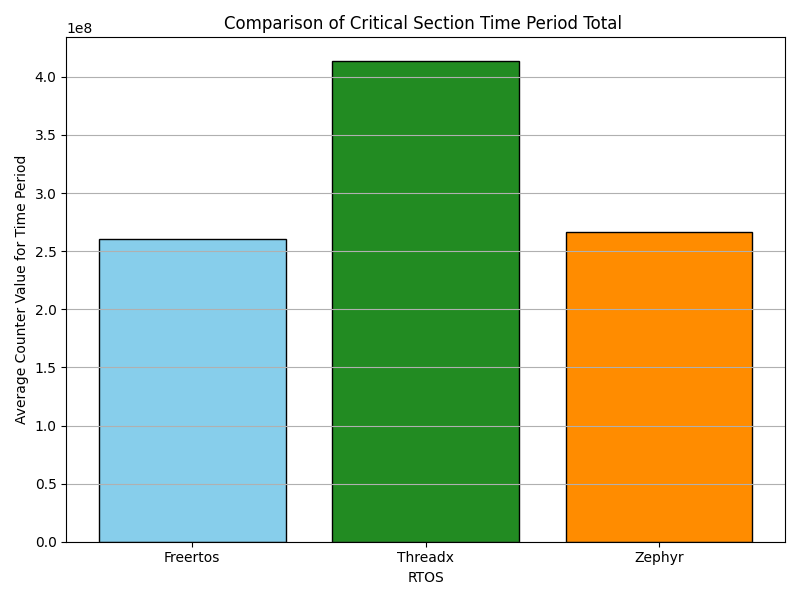
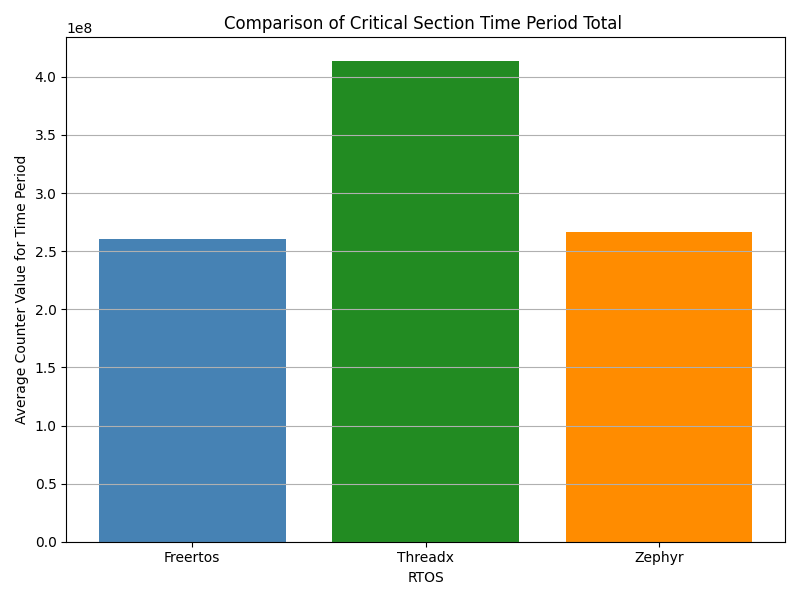
updated inhertiance tests

diff --git a/inheritance_test_messsetup2/analyse_and_plot.py b/inheritance_test_messsetup2/analyse_and_plot.py
@@ -1,7 +1,31 @@
+# Copyright (c) <2025> <Marco Milenkovic>
+#
+# This Code was generated with help of the ChatGPT and Github Copilot
+# The Code was carfeully reviewed and adjusted to work as intended
+# The Code is used to analyse and plot the critical section test results
+#
+# Permission is hereby granted, free of charge, to any person obtaining a copy of 
+# this software and associated documentation files (the "Software"), 
+# to deal in the Software without restriction, including without limitation the 
+# rights to use, copy, modify, merge, publish, distribute, sublicense, 
+# and/or sell copies of the Software, and to permit persons to whom the Software 
+# is furnished to do so, subject to the following conditions:
+#
+# The above copyright notice and this permission notice shall be included in all 
+# copies or substantial portions of the Software.
+#
+# THE SOFTWARE IS PROVIDED "AS IS", WITHOUT WARRANTY OF ANY KIND, EXPRESS OR IMPLIED, 
+# INCLUDING BUT NOT LIMITED TO THE WARRANTIES OF MERCHANTABILITY, FITNESS FOR 
+# A PARTICULAR PURPOSE AND NONINFRINGEMENT. IN NO EVENT SHALL THE AUTHORS OR 
+# COPYRIGHT HOLDERS BE LIABLE FOR ANY CLAIM, DAMAGES OR OTHER LIABILITY, WHETHER IN 
+# AN ACTION OF CONTRACT, TORT OR OTHERWISE, ARISING FROM, OUT OF OR IN CONNECTION 
+# WITH THE SOFTWARE OR THE USE OR OTHER DEALINGS IN THE SOFTWARE.
+
 import os
 import re
 import numpy as np
 import matplotlib.pyplot as plt
+import csv
 
 # --------------------------------
 # Utility functions
@@ -253,7 +277,7 @@ def plot_cycle_jitter(summary):
     # Plot Absolute Jitter
     plt.figure(figsize=(8,6))
     x = np.arange(len(rtoses))
-    plt.bar(x, jitter_abs, color='skyblue')
+    plt.bar(x, jitter_abs, color=['steelblue', 'forestgreen', 'darkorange'])
     plt.xticks(x, rtoses)
     plt.ylabel("Cycle Count Jitter (Absolute)")
     plt.title("Cycle Count Jitter (Absolute)")
@@ -264,7 +288,7 @@ def plot_cycle_jitter(summary):
     
     # Plot Percentage Jitter
     plt.figure(figsize=(8,6))
-    plt.bar(x, jitter_pct, color='lightgreen')
+    plt.bar(x, jitter_pct, color=['steelblue', 'forestgreen', 'darkorange'])
     plt.xticks(x, rtoses)
     plt.ylabel("Cycle Count Jitter (%)")
     plt.title("Cycle Count Jitter (%)")
@@ -359,6 +383,45 @@ def plot_comparison_all_rtoses(summary):
     plt.savefig(plot_filename)
     plt.close()
 
+def plot_cycle_count(summary):
+    """
+    Create and save a bar chart comparing the Cycle Count metrics (Min, Robust Avg, Max)
+    for each RTOS listed in the summary.
+    """
+    # Extract RTOS names and corresponding cycle count metrics from the summary.
+    rtoses = [item['rtos'] for item in summary]
+    x = np.arange(len(rtoses))
+    bar_width = 0.25
+
+    cycle_mins = [item['cycle_min'] for item in summary]
+    cycle_robusts = [item['cycle_robust'] for item in summary]
+    cycle_maxs = [item['cycle_max'] for item in summary]
+
+    # Create the figure for Cycle Count comparison.
+    plt.figure(figsize=(8, 6))
+    plt.bar(x - bar_width, cycle_mins, width=bar_width, label='Min', color='steelblue')
+    plt.bar(x, cycle_robusts, width=bar_width, label='Robust Avg', color='darkorange')
+    plt.bar(x + bar_width, cycle_maxs, width=bar_width, label='Max', color='forestgreen')
+
+    plt.title("Cycle Count Comparison")
+    plt.xlabel("RTOS")
+    plt.ylabel("Cycle Count (Adjusted)")
+    plt.xticks(x, rtoses)
+    plt.legend()
+    plt.grid(True)
+    plt.tight_layout()
+
+    # Ensure the 'plot' directory exists.
+    plot_dir = "plot"
+    if not os.path.exists(plot_dir):
+        os.makedirs(plot_dir)
+
+    # Save the figure.
+    plot_filename = os.path.join(plot_dir, "cycle_count_comparison.png")
+    plt.savefig(plot_filename)
+    plt.close()
+    print(f"Cycle count plot saved to {plot_filename}")
+
 # --------------------------------
 # Main Function
 # --------------------------------
@@ -406,24 +469,56 @@ def main():
             'dcache_miss_max': averages['dcache_miss_max'],
         })
 
-    # Write summary file.
-    with open("summary_inheritance.txt", "w") as f:
-        for item in summary:
-            f.write(f"RTOS: {item['rtos']}\n")
-            f.write(f"File: {item['file']}\n")
-            f.write(f"Total Inversion Cycles: {item['total_inversions']}\n")
-            f.write(f"Number of Measurements: {item['num_measurements']}\n")
-            f.write(f"Cycle Count - Min: {item['cycle_min']:.2f}, Robust Avg: {item['cycle_robust']:.2f}, Median: {item['cycle_median']:.2f}, Max: {item['cycle_max']:.2f}\n")
-            f.write(f"ICache Miss - Min: {item['icache_min']:.2f}, Robust Avg: {item['icache_robust']:.2f}, Median: {item['icache_median']:.2f}, Max: {item['icache_max']:.2f}\n")
-            f.write(f"DCache Access - Min: {item['dcache_access_min']:.2f}, Robust Avg: {item['dcache_access_robust']:.2f}, Median: {item['dcache_access_median']:.2f}, Max: {item['dcache_access_max']:.2f}\n")
-            f.write(f"DCache Miss - Min: {item['dcache_miss_min']:.2f}, Robust Avg: {item['dcache_miss_robust']:.2f}, Median: {item['dcache_miss_median']:.2f}, Max: {item['dcache_miss_max']:.2f}\n")
-            f.write("-" * 40 + "\n")
-    print("Inheritance analysis complete. Summary written to summary_inheritance.txt and all plots saved in the 'plot' directory.")
+    # Define the output CSV file path
+    summary_file = "summary_inheritance.csv"
 
+    # Open the CSV file for writing
+    with open(summary_file, mode='w', newline='') as csvfile:
+        csvwriter = csv.writer(csvfile)
+        
+        # Write the header row with all desired fields
+        header = [
+            "RTOS", "File", "Total Inversion Cycles", "Number of Measurements",
+            "Cycle Count Min", "Cycle Count Robust Avg", "Cycle Count Median", "Cycle Count Max",
+            "ICache Miss Min", "ICache Miss Robust Avg", "ICache Miss Median", "ICache Miss Max",
+            "DCache Access Min", "DCache Access Robust Avg", "DCache Access Median", "DCache Access Max",
+            "DCache Miss Min", "DCache Miss Robust Avg", "DCache Miss Median", "DCache Miss Max"
+        ]
+        csvwriter.writerow(header)
+        
+        # Write each summary item as a row in the CSV file
+        for item in summary:
+            row = [
+                item["rtos"],
+                item["file"],
+                item["total_inversions"],
+                item["num_measurements"],
+                f"{item['cycle_min']:.2f}",
+                f"{item['cycle_robust']:.2f}",
+                f"{item['cycle_median']:.2f}",
+                f"{item['cycle_max']:.2f}",
+                f"{item['icache_min']:.2f}",
+                f"{item['icache_robust']:.2f}",
+                f"{item['icache_median']:.2f}",
+                f"{item['icache_max']:.2f}",
+                f"{item['dcache_access_min']:.2f}",
+                f"{item['dcache_access_robust']:.2f}",
+                f"{item['dcache_access_median']:.2f}",
+                f"{item['dcache_access_max']:.2f}",
+                f"{item['dcache_miss_min']:.2f}",
+                f"{item['dcache_miss_robust']:.2f}",
+                f"{item['dcache_miss_median']:.2f}",
+                f"{item['dcache_miss_max']:.2f}"
+            ]
+            csvwriter.writerow(row)
+
+    print("Inheritance analysis complete. Summary written to summary_inheritance.csv and all plots saved in the 'plot' directory.")
     # Generate the comparison plot for all RTOSes.
     plot_comparison_all_rtoses(summary)
     # Generate the new Cycle Count jitter plots.
     plot_cycle_jitter(summary)
+
+    plot_cycle_count(summary)
 
 if __name__ == "__main__":
     main()

diff --git a/tests_auf_default/inheritance_test_messsetup2/analyse_and_plot.py b/tests_auf_default/inheritance_test_messsetup2/analyse_and_plot.py
@@ -1,7 +1,31 @@
+# Copyright (c) <2025> <Marco Milenkovic>
+#
+# This Code was generated with help of the ChatGPT and Github Copilot
+# The Code was carfeully reviewed and adjusted to work as intended
+# The Code is used to analyse and plot the critical section test results
+#
+# Permission is hereby granted, free of charge, to any person obtaining a copy of 
+# this software and associated documentation files (the "Software"), 
+# to deal in the Software without restriction, including without limitation the 
+# rights to use, copy, modify, merge, publish, distribute, sublicense, 
+# and/or sell copies of the Software, and to permit persons to whom the Software 
+# is furnished to do so, subject to the following conditions:
+#
+# The above copyright notice and this permission notice shall be included in all 
+# copies or substantial portions of the Software.
+#
+# THE SOFTWARE IS PROVIDED "AS IS", WITHOUT WARRANTY OF ANY KIND, EXPRESS OR IMPLIED, 
+# INCLUDING BUT NOT LIMITED TO THE WARRANTIES OF MERCHANTABILITY, FITNESS FOR 
+# A PARTICULAR PURPOSE AND NONINFRINGEMENT. IN NO EVENT SHALL THE AUTHORS OR 
+# COPYRIGHT HOLDERS BE LIABLE FOR ANY CLAIM, DAMAGES OR OTHER LIABILITY, WHETHER IN 
+# AN ACTION OF CONTRACT, TORT OR OTHERWISE, ARISING FROM, OUT OF OR IN CONNECTION 
+# WITH THE SOFTWARE OR THE USE OR OTHER DEALINGS IN THE SOFTWARE.
+
 import os
 import re
 import numpy as np
 import matplotlib.pyplot as plt
+import csv
 
 # --------------------------------
 # Utility functions
@@ -253,7 +277,7 @@ def plot_cycle_jitter(summary):
     # Plot Absolute Jitter
     plt.figure(figsize=(8,6))
     x = np.arange(len(rtoses))
-    plt.bar(x, jitter_abs, color='skyblue')
+    plt.bar(x, jitter_abs, color=['steelblue', 'forestgreen', 'darkorange'])
     plt.xticks(x, rtoses)
     plt.ylabel("Cycle Count Jitter (Absolute)")
     plt.title("Cycle Count Jitter (Absolute)")
@@ -264,7 +288,7 @@ def plot_cycle_jitter(summary):
     
     # Plot Percentage Jitter
     plt.figure(figsize=(8,6))
-    plt.bar(x, jitter_pct, color='lightgreen')
+    plt.bar(x, jitter_pct, color=['steelblue', 'forestgreen', 'darkorange'])
     plt.xticks(x, rtoses)
     plt.ylabel("Cycle Count Jitter (%)")
     plt.title("Cycle Count Jitter (%)")
@@ -359,6 +383,45 @@ def plot_comparison_all_rtoses(summary):
     plt.savefig(plot_filename)
     plt.close()
 
+def plot_cycle_count(summary):
+    """
+    Create and save a bar chart comparing the Cycle Count metrics (Min, Robust Avg, Max)
+    for each RTOS listed in the summary.
+    """
+    # Extract RTOS names and corresponding cycle count metrics from the summary.
+    rtoses = [item['rtos'] for item in summary]
+    x = np.arange(len(rtoses))
+    bar_width = 0.25
+
+    cycle_mins = [item['cycle_min'] for item in summary]
+    cycle_robusts = [item['cycle_robust'] for item in summary]
+    cycle_maxs = [item['cycle_max'] for item in summary]
+
+    # Create the figure for Cycle Count comparison.
+    plt.figure(figsize=(8, 6))
+    plt.bar(x - bar_width, cycle_mins, width=bar_width, label='Min', color='steelblue')
+    plt.bar(x, cycle_robusts, width=bar_width, label='Robust Avg', color='darkorange')
+    plt.bar(x + bar_width, cycle_maxs, width=bar_width, label='Max', color='forestgreen')
+
+    plt.title("Cycle Count Comparison")
+    plt.xlabel("RTOS")
+    plt.ylabel("Cycle Count (Adjusted)")
+    plt.xticks(x, rtoses)
+    plt.legend()
+    plt.grid(True)
+    plt.tight_layout()
+
+    # Ensure the 'plot' directory exists.
+    plot_dir = "plot"
+    if not os.path.exists(plot_dir):
+        os.makedirs(plot_dir)
+
+    # Save the figure.
+    plot_filename = os.path.join(plot_dir, "cycle_count_comparison.png")
+    plt.savefig(plot_filename)
+    plt.close()
+    print(f"Cycle count plot saved to {plot_filename}")
+
 # --------------------------------
 # Main Function
 # --------------------------------
@@ -406,24 +469,56 @@ def main():
             'dcache_miss_max': averages['dcache_miss_max'],
         })
 
-    # Write summary file.
-    with open("summary_inheritance.txt", "w") as f:
-        for item in summary:
-            f.write(f"RTOS: {item['rtos']}\n")
-            f.write(f"File: {item['file']}\n")
-            f.write(f"Total Inversion Cycles: {item['total_inversions']}\n")
-            f.write(f"Number of Measurements: {item['num_measurements']}\n")
-            f.write(f"Cycle Count - Min: {item['cycle_min']:.2f}, Robust Avg: {item['cycle_robust']:.2f}, Median: {item['cycle_median']:.2f}, Max: {item['cycle_max']:.2f}\n")
-            f.write(f"ICache Miss - Min: {item['icache_min']:.2f}, Robust Avg: {item['icache_robust']:.2f}, Median: {item['icache_median']:.2f}, Max: {item['icache_max']:.2f}\n")
-            f.write(f"DCache Access - Min: {item['dcache_access_min']:.2f}, Robust Avg: {item['dcache_access_robust']:.2f}, Median: {item['dcache_access_median']:.2f}, Max: {item['dcache_access_max']:.2f}\n")
-            f.write(f"DCache Miss - Min: {item['dcache_miss_min']:.2f}, Robust Avg: {item['dcache_miss_robust']:.2f}, Median: {item['dcache_miss_median']:.2f}, Max: {item['dcache_miss_max']:.2f}\n")
-            f.write("-" * 40 + "\n")
-    print("Inheritance analysis complete. Summary written to summary_inheritance.txt and all plots saved in the 'plot' directory.")
+    # Define the output CSV file path
+    summary_file = "summary_inheritance.csv"
 
+    # Open the CSV file for writing
+    with open(summary_file, mode='w', newline='') as csvfile:
+        csvwriter = csv.writer(csvfile)
+        
+        # Write the header row with all desired fields
+        header = [
+            "RTOS", "File", "Total Inversion Cycles", "Number of Measurements",
+            "Cycle Count Min", "Cycle Count Robust Avg", "Cycle Count Median", "Cycle Count Max",
+            "ICache Miss Min", "ICache Miss Robust Avg", "ICache Miss Median", "ICache Miss Max",
+            "DCache Access Min", "DCache Access Robust Avg", "DCache Access Median", "DCache Access Max",
+            "DCache Miss Min", "DCache Miss Robust Avg", "DCache Miss Median", "DCache Miss Max"
+        ]
+        csvwriter.writerow(header)
+        
+        # Write each summary item as a row in the CSV file
+        for item in summary:
+            row = [
+                item["rtos"],
+                item["file"],
+                item["total_inversions"],
+                item["num_measurements"],
+                f"{item['cycle_min']:.2f}",
+                f"{item['cycle_robust']:.2f}",
+                f"{item['cycle_median']:.2f}",
+                f"{item['cycle_max']:.2f}",
+                f"{item['icache_min']:.2f}",
+                f"{item['icache_robust']:.2f}",
+                f"{item['icache_median']:.2f}",
+                f"{item['icache_max']:.2f}",
+                f"{item['dcache_access_min']:.2f}",
+                f"{item['dcache_access_robust']:.2f}",
+                f"{item['dcache_access_median']:.2f}",
+                f"{item['dcache_access_max']:.2f}",
+                f"{item['dcache_miss_min']:.2f}",
+                f"{item['dcache_miss_robust']:.2f}",
+                f"{item['dcache_miss_median']:.2f}",
+                f"{item['dcache_miss_max']:.2f}"
+            ]
+            csvwriter.writerow(row)
+
+    print("Inheritance analysis complete. Summary written to summary_inheritance.csv and all plots saved in the 'plot' directory.")
     # Generate the comparison plot for all RTOSes.
     plot_comparison_all_rtoses(summary)
     # Generate the new Cycle Count jitter plots.
     plot_cycle_jitter(summary)
+
+    plot_cycle_count(summary)
 
 if __name__ == "__main__":
     main()

diff --git a/critical_section_test/analyse_and_plot.py b/critical_section_test/analyse_and_plot.py
@@ -257,7 +257,7 @@ def plot_overall_comparison(summary):
     avg_processing = [item['avg_overall'] for item in summary]
     x = np.arange(len(rtoses))
     plt.figure(figsize=(8, 6))
-    plt.bar(x, avg_processing, color=['skyblue', 'forestgreen', 'darkorange'], edgecolor='black')
+    plt.bar(x, avg_processing, color=['steelblue', 'forestgreen', 'darkorange'])
     plt.xticks(x, rtoses)
     plt.xlabel("RTOS")
     plt.ylabel("Average Counter Value for Time Period")
@@ -283,7 +283,7 @@ def plot_overall_jitter_comparison(summary):
     
     # Jitter Total Plot
     plt.figure(figsize=(8,6))
-    plt.bar(x, jitter_totals, color=['skyblue', 'forestgreen', 'darkorange'], edgecolor='black')
+    plt.bar(x, jitter_totals, color=['steelblue', 'forestgreen', 'darkorange'])
     plt.xticks(x, rtoses)
     plt.xlabel("RTOS")
     plt.ylabel("Jitter Total")
@@ -299,7 +299,7 @@ def plot_overall_jitter_comparison(summary):
     
     # Jitter Percentage Plot
     plt.figure(figsize=(8,6))
-    plt.bar(x, jitter_pcts, color=['skyblue', 'lightgreen', 'darkorange'], edgecolor='black')
+    plt.bar(x, jitter_pcts, color=['steelblue', 'forestgreen', 'darkorange'])
     plt.xticks(x, rtoses)
     plt.xlabel("RTOS")
     plt.ylabel("Jitter Percentage (%)")

diff --git a/tests_auf_default/critical_section_test/analyse_and_plot.py b/tests_auf_default/critical_section_test/analyse_and_plot.py
@@ -257,7 +257,7 @@ def plot_overall_comparison(summary):
     avg_processing = [item['avg_overall'] for item in summary]
     x = np.arange(len(rtoses))
     plt.figure(figsize=(8, 6))
-    plt.bar(x, avg_processing, color=['skyblue', 'forestgreen', 'darkorange'], edgecolor='black')
+    plt.bar(x, avg_processing, color=['steelblue', 'forestgreen', 'darkorange'])
     plt.xticks(x, rtoses)
     plt.xlabel("RTOS")
     plt.ylabel("Average Counter Value for Time Period")
@@ -283,7 +283,7 @@ def plot_overall_jitter_comparison(summary):
     
     # Jitter Total Plot
     plt.figure(figsize=(8,6))
-    plt.bar(x, jitter_totals, color=['skyblue', 'forestgreen', 'darkorange'], edgecolor='black')
+    plt.bar(x, jitter_totals, color=['steelblue', 'forestgreen', 'darkorange'])
     plt.xticks(x, rtoses)
     plt.xlabel("RTOS")
     plt.ylabel("Jitter Total")
@@ -299,7 +299,7 @@ def plot_overall_jitter_comparison(summary):
     
     # Jitter Percentage Plot
     plt.figure(figsize=(8,6))
-    plt.bar(x, jitter_pcts, color=['skyblue', 'lightgreen', 'darkorange'], edgecolor='black')
+    plt.bar(x, jitter_pcts, color=['steelblue', 'forestgreen', 'darkorange'])
     plt.xticks(x, rtoses)
     plt.xlabel("RTOS")
     plt.ylabel("Jitter Percentage (%)")
